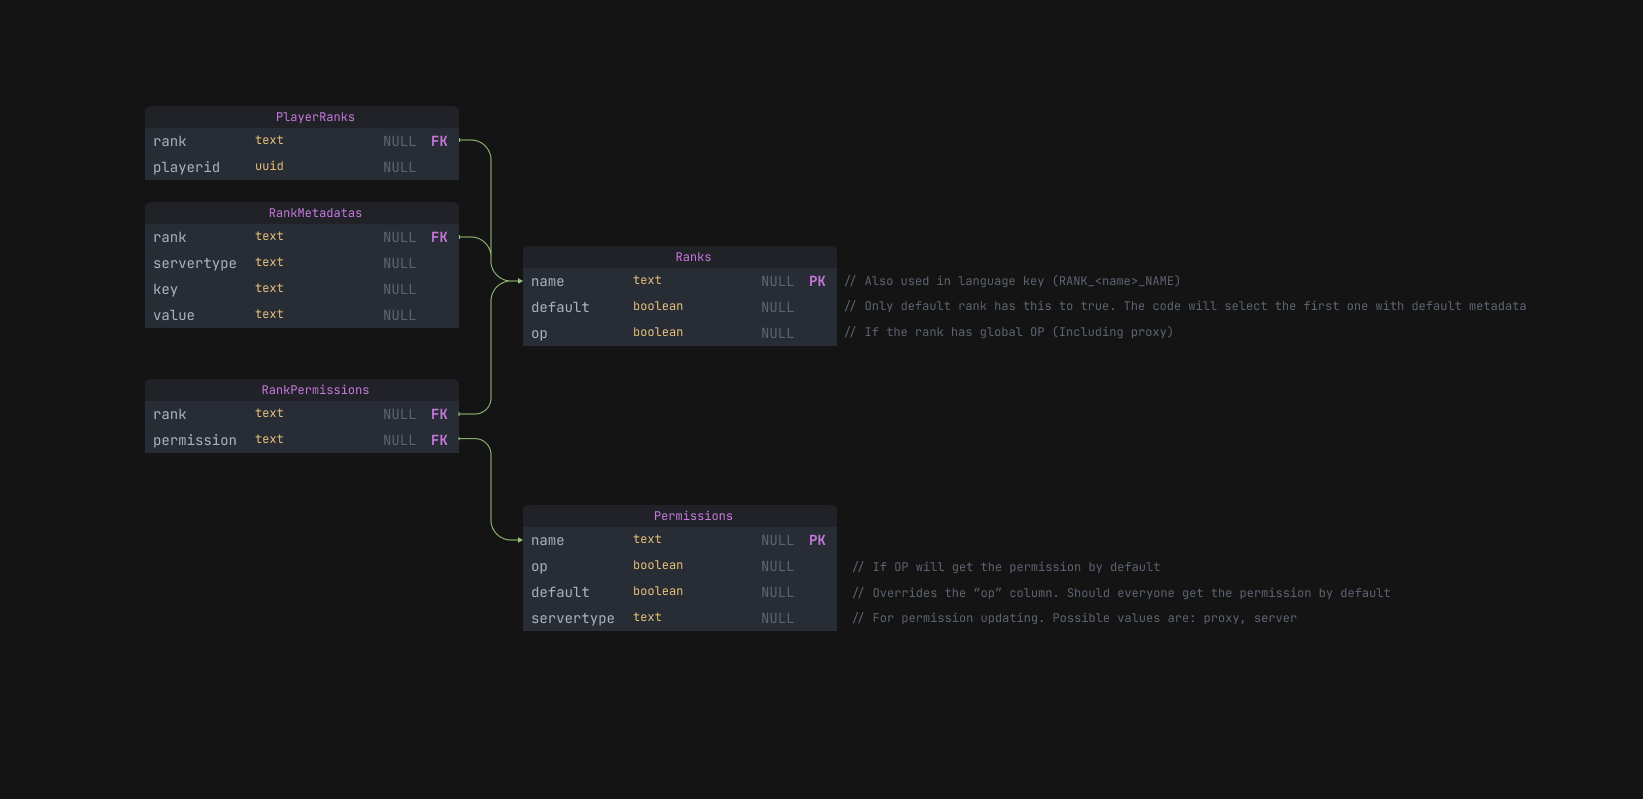
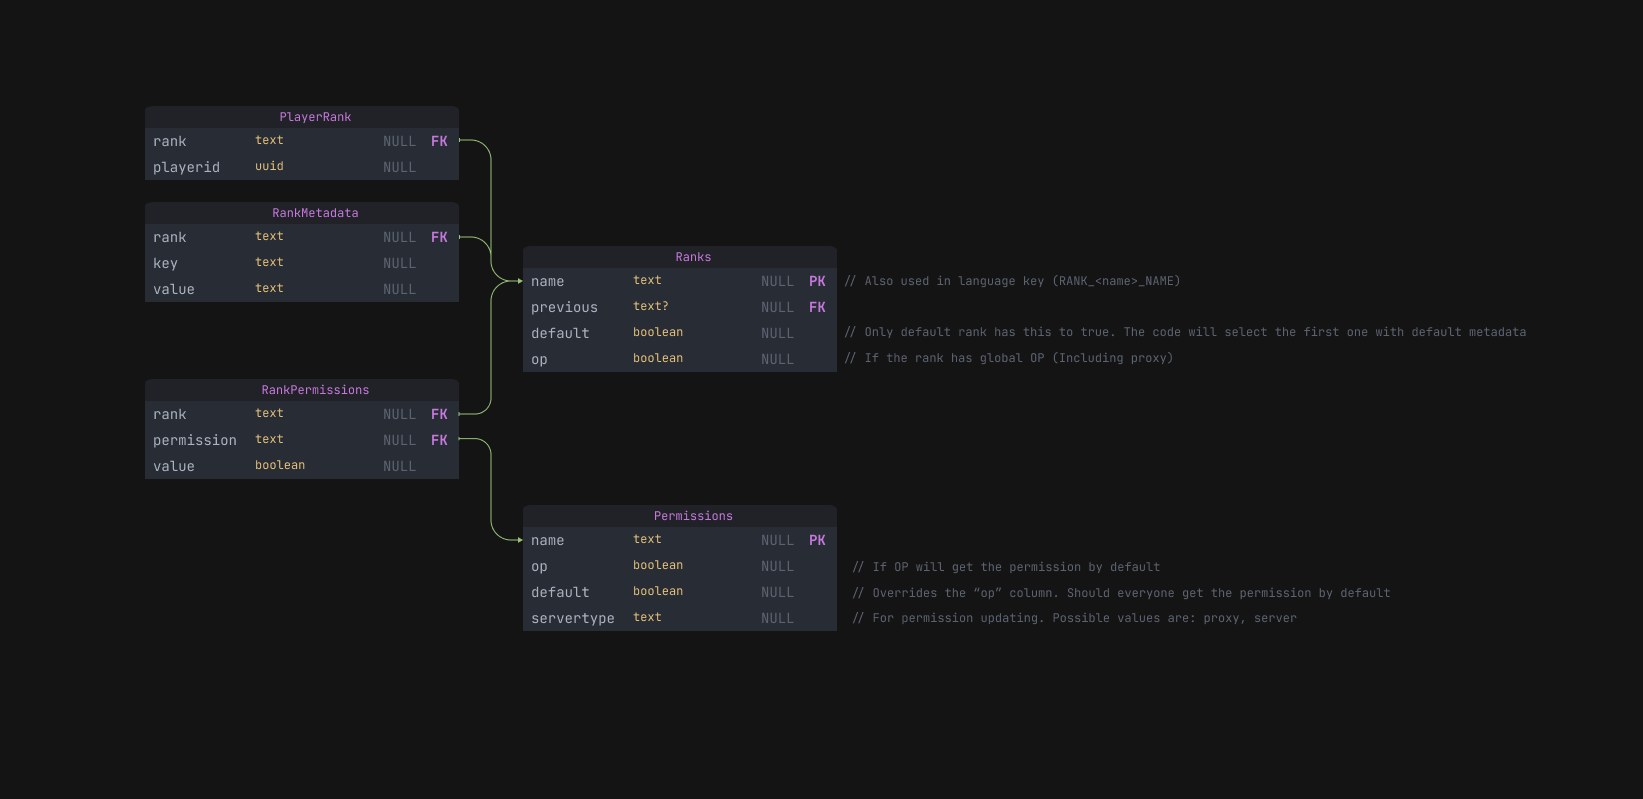
Fixed speedyboat
Took 37 minutes

diff --git a/tilapia-api/src/main/kotlin/net/tilapiamc/api/events/EventsManager.kt b/tilapia-api/src/main/kotlin/net/tilapiamc/api/events/EventsManager.kt
@@ -31,6 +31,17 @@ object EventsManager: AbstractEventsManager(), Listener {
 
     init {
 
+        ProtocolLibrary.getProtocolManager().addPacketListener(object : PacketAdapter(PluginInstanceGrabber.getPluginInstance(), PacketType.values().filter {
+            PacketRegistry.getServerPacketTypes().contains(it) || PacketRegistry.getClientPacketTypes().contains(it)
+        }) {
+            override fun onPacketSending(event: PacketEvent) {
+                fireEvent(PacketSendEvent(event))
+            }
+
+            override fun onPacketReceiving(event: PacketEvent) {
+                fireEvent(PacketReceiveEvent(event))
+            }
+        })
 
         listenInPackage("org.bukkit.event")
         listenInPackage("org.spigotmc.event")
@@ -57,17 +68,6 @@ object EventsManager: AbstractEventsManager(), Listener {
             }
         }
 
-        ProtocolLibrary.getProtocolManager().addPacketListener(object : PacketAdapter(PluginInstanceGrabber.getPluginInstance(), PacketType.values().filter {
-            PacketRegistry.getServerPacketTypes().contains(it) || PacketRegistry.getClientPacketTypes().contains(it)
-        }) {
-            override fun onPacketSending(event: PacketEvent) {
-                fireEvent(PacketSendEvent(event))
-            }
-
-            override fun onPacketReceiving(event: PacketEvent) {
-                fireEvent(PacketReceiveEvent(event))
-            }
-        })
     }
 
     fun listenForEvent(eventType: Class<out Event>) {

diff --git a/tilapia-fleetwars/src/main/kotlin/net/tilapiamc/fleetwars/commands/FleetWarsCommand.kt b/tilapia-fleetwars/src/main/kotlin/net/tilapiamc/fleetwars/commands/FleetWarsCommand.kt
@@ -6,6 +6,7 @@ import net.tilapiamc.api.commands.args.worldNameArg
 import net.tilapiamc.api.player.PlayersManager.getLocalPlayer
 import net.tilapiamc.fleetwars.FleetWars
 import net.tilapiamc.fleetwars.FleetWarsRules
+import net.tilapiamc.sandbox.SandboxProperties
 import net.tilapiamc.sandbox.TilapiaSandbox
 import org.bukkit.Bukkit
 import org.bukkit.ChatColor
@@ -59,7 +60,7 @@ class FleetWarsCommand: BukkitCommand("fleetwars", "FleetWars 的主要指令", 
                         }
                         sandboxGames.add(sandbox.gameId)
                         FleetWarsRules.makeFleetWarsSandbox(sandbox)
-                        sender.sendMessage(getLanguageBundle()[success])
+                        sender.sendMessage(getLanguageBundle()[success].format(sandbox.getProperty(SandboxProperties.SANDBOX_WORLD)))
                         sender.sendMessage(getLanguageBundle()[hint])
                     } else {
                         sender.sendMessage(getLanguageBundle()[notSandbox])

diff --git a/tilapia-api/src/main/kotlin/net/tilapiamc/api/player/NetworkPlayer.kt b/tilapia-api/src/main/kotlin/net/tilapiamc/api/player/NetworkPlayer.kt
@@ -4,7 +4,6 @@ import net.tilapiamc.api.TilapiaCore
 import net.tilapiamc.api.game.Game
 import net.tilapiamc.api.game.lobby.Lobby
 import net.tilapiamc.api.game.minigame.MiniGame
-import net.tilapiamc.api.ranks.Rank
 import net.tilapiamc.api.server.TilapiaServer
 import net.tilapiamc.common.language.LanguageBundle
 import java.util.*
@@ -20,8 +19,6 @@ abstract class NetworkPlayer(
 
     lateinit var currentServer: TilapiaServer
 
-    abstract var rank: Rank
-        internal set
     abstract val language: Locale
 
     fun getLanguageBundle(): LanguageBundle {

diff --git a/docs/dev/modules_and_systems.md b/docs/dev/modules_and_systems.md
@@ -58,7 +58,7 @@ During the last 30 minutes of maintenance (After graceful shutdown has timed out
 24. Expose public api unit
 25. Check the health of the network
 
-## Master Control
+## Units
 
 ### Kubernetes Unit
 
@@ -88,15 +88,40 @@ The game central is in the project `tilapia-game-central`. The game central unit
 
 If a critical change needs to be deployed in the game central unit, the entire server has to go down, as it manages all the proxies and servers, and they won't work without the game central unit.
 
-## Rank System Infrastructure
+## Systems & Modules
+
+### Transforming Module
+
+Transforming enables the possibility to modify the Spigot without having a custom build or `-noverify` flag in VM options. Currently, it only works on x86_64 linux & x86_64 windows due to the lack of machines we can use to build native libraries, but should work on arm64, arm32, x86_32 with proper native library built.
+
+There are already several transformers that are used in some game plugins (e.g. speedyboat, disables the boat speed limit) and some features (e.g. noclip, disables the vanilla block clipping check).
+
+You may have to learn Java bytecode in order to use this module.
+
+### Command System
+
+The design we came up with for our commands system:
+
+1. Cancel all the vanilla, non-tilapia commands if the player does not have the vanilla command permission (Including plugin commands, like citizens or worldedit)
+2. The command is using Kotlin DSL based API, and with the goal of being easy and fast to use.
+3. Every command is associated with a permission, and the permission may be granted by default if the command is not required by OP
+4. The command API implemented in tilapia-proxy-api and tilapia-api (the one for spigot/bukkit) is identical
+5. As for now, console is not affected by the command system, meaning that all the commands should not and cannot be run on console. It's not a bug, and won't be fixed.
+6. Custom argument type is more then welcome, but it's recommended to directly add those argument types into shared project `tilapia-commands-extension` so everyone has access to them
+7. Commands should not have clear user-friendly text, but should be wrapped as a languaged text instead (Using `getCommandLanguageKey`)
+
+### Rank System Infrastructure
 
 The implementation of our current rank system:
 
 1. `RanksManager` manages all the ranks
 2. Ranks are stored in Database, accessed directly from Database for every match and the proxy
 3. `RanksManager` has an implementation of `updateRanks` that fetches all the ranks from the MySQL Database
-4. `RanksManager` has an implementation of `changeRank` that changes the rank of a player
+4. `RanksManager` has an implementation of `setRank` that changes the rank of a player and `getRank` that gets the rank of a player
 5. Rank of a player is directly stored as clear text (For example, `DEVELOPER`) in the database
+6. Prefix and such are stored as RankMetadata, including other non-bukkit-permission but permissive related values, for example: level multiplier, which is a float
+7. Rank metadata can and is designed to be modified directly from database. Useless rank metadata will be removed by deployment manager after the next update is fully deployed, while the engineer will take note of what is being removed.
+8. Ranks has a `previous` value, which is the parent of the rank. It will inherit all the permission of the previous rank (Metadata is not included, still needs to be configured manually)
 
 Database Diagram:
 
